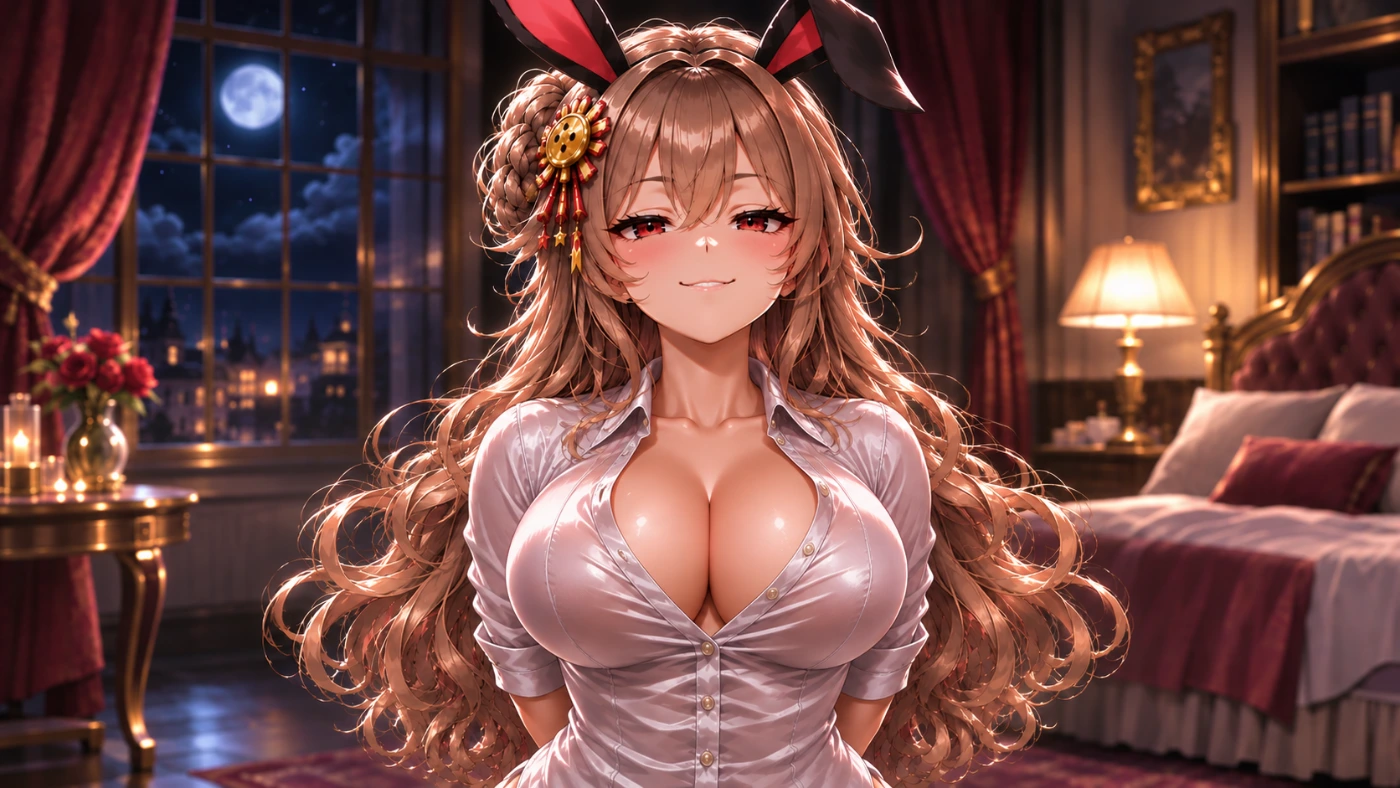
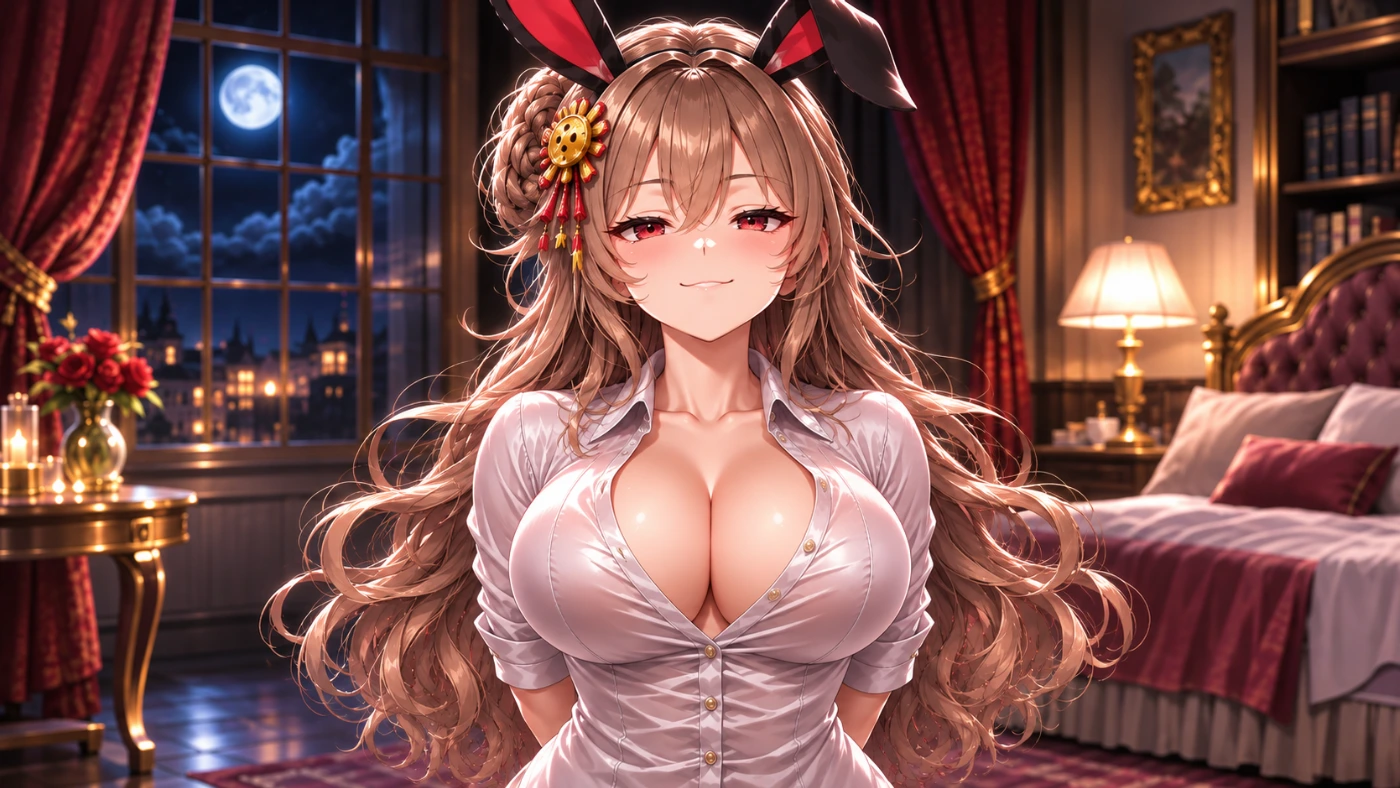
ぱにゅぱにゅ：頬・後ろ手のYシャツにもボタン外し（D19 の続き）。閉じた絵と開いた絵を ChatGPT の同じ会話で対に描かせ（閉じた絵→それを深いV字に開く）、閉じた絵も差し替え（今までの絵に位置合わせ、範囲は変えない）、三段階・とがると同時、肌検査は目視で合格、版の印 20261108q

diff --git a/assets/manifest.js b/assets/manifest.js
@@ -1,2 +1,2 @@
 // 自動生成（qa/genmanifest.mjs）。手で書き換えない。
-window.ASSET_MANIFEST = {"assets/characters/grano_bow.webp":187268,"assets/characters/grano_concerned.webp":226764,"assets/characters/grano_cutin_busted.webp":152044,"assets/characters/grano_cutin_grovel.webp":153160,"assets/characters/grano_cutin_haggle.webp":163340,"assets/characters/grano_cutin_panic.webp":151290,"assets/characters/grano_cutin_smug.webp":152992,"assets/characters/grano_default.webp":105470,"assets/characters/grano_mini.webp":189074,"assets/characters/grano_offer.webp":176806,"assets/characters/grano_recommend.webp":241808,"assets/characters/grano_shop.webp":214856,"assets/characters/grano_shop_blush.webp":213496,"assets/characters/grano_shop_smile.webp":212976,"assets/characters/grano_shop_trouble.webp":227144,"assets/characters/mimi_allin.webp":181816,"assets/characters/mimi_blush.webp":53278,"assets/characters/mimi_bust_calm.webp":200260,"assets/characters/mimi_bust_sad.webp":218298,"assets/characters/mimi_bust_shock.webp":212162,"assets/characters/mimi_bust_smug.webp":212620,"assets/characters/mimi_bust_think.webp":187966,"assets/characters/mimi_bust_win.webp":196022,"assets/characters/mimi_clutch.webp":130896,"assets/characters/mimi_cutin_bawl.webp":125292,"assets/characters/mimi_default.webp":67156,"assets/characters/mimi_ending.webp":75632,"assets/characters/mimi_gold.webp":85172,"assets/characters/mimi_intermission.webp":96396,"assets/characters/mimi_mini.webp":89246,"assets/characters/mimi_panda.webp":68440,"assets/characters/mimi_pink.webp":68754,"assets/characters/mimi_sad.webp":69046,"assets/characters/mimi_shock.webp":78598,"assets/characters/mimi_think.webp":69574,"assets/characters/mimi_win.webp":68612,"assets/characters/panyu.webp":159776,"assets/characters/panyu_bikini_dressing_open.webp":291348,"assets/characters/panyu_bikini_dressing_reach.webp":299770,"assets/characters/panyu_bikini_reach.webp":264062,"assets/characters/panyu_blush.webp":212134,"assets/characters/panyu_bunny_dressing_reach.webp":302216,"assets/characters/panyu_bunny_pool_reach.webp":363870,"assets/characters/panyu_dress_dressing_open.webp":257908,"assets/characters/panyu_dress_dressing_reach.webp":284980,"assets/characters/panyu_dress_reach.webp":255208,"assets/characters/panyu_finish.webp":214034,"assets/characters/panyu_gothic_dressing_open.webp":267246,"assets/characters/panyu_gothic_dressing_reach.webp":269984,"assets/characters/panyu_gothic_pool_open.webp":347306,"assets/characters/panyu_gothic_pool_reach.webp":360890,"assets/characters/panyu_gothic_reach.webp":284702,"assets/characters/panyu_gym_cheek_reach.webp":182128,"assets/characters/panyu_gym_reach.webp":270596,"assets/characters/panyu_gym_wrists_reach.webp":191612,"assets/characters/panyu_halter_dressing_open.webp":278048,"assets/characters/panyu_halter_dressing_reach.webp":297796,"assets/characters/panyu_halter_reach.webp":237266,"assets/characters/panyu_inner_peace_reach.webp":245824,"assets/characters/panyu_inner_reach.webp":256186,"assets/characters/panyu_jirai_dressing_open.webp":323974,"assets/characters/panyu_jirai_dressing_reach.webp":328808,"assets/characters/panyu_jirai_pool_open.webp":305884,"assets/characters/panyu_jirai_pool_reach.webp":345918,"assets/characters/panyu_jirai_reach.webp":272668,"assets/characters/panyu_nurse_dressing_open.webp":266174,"assets/characters/panyu_nurse_dressing_reach.webp":282330,"assets/characters/panyu_nurse_pool_open.webp":301016,"assets/characters/panyu_nurse_pool_reach.webp":345680,"assets/characters/panyu_nurse_reach.webp":244538,"assets/characters/panyu_pajama2_reach.webp":174094,"assets/characters/panyu_pajama2_surprise_face.webp":20480,"assets/characters/panyu_pajama_dressing_open.webp":306866,"assets/characters/panyu_pajama_dressing_reach.webp":303164,"assets/characters/panyu_pajama_pool_open.webp":303058,"assets/characters/panyu_pajama_pool_reach.webp":283860,"assets/characters/panyu_pajama_reach.webp":247900,"assets/characters/panyu_reach.webp":192882,"assets/characters/panyu_santa_dressing_open.webp":298082,"assets/characters/panyu_santa_dressing_reach.webp":303998,"assets/characters/panyu_santa_pool_open.webp":339346,"assets/characters/panyu_santa_pool_reach.webp":361490,"assets/characters/panyu_santa_reach.webp":261296,"assets/characters/panyu_surprise_face.webp":19062,"assets/characters/panyu_tshirt_reach.webp":277544,"assets/characters/panyu_tshirt_stretch_reach.webp":207118,"assets/characters/panyu_vintage_dressing_open.webp":286614,"assets/characters/panyu_vintage_dressing_reach.webp":317466,"assets/characters/panyu_vintage_pool_open.webp":348920,"assets/characters/panyu_vintage_pool_reach.webp":381568,"assets/characters/panyu_vintage_reach.webp":272268,"assets/characters/panyu_white_dressing_open.webp":264504,"assets/characters/panyu_white_dressing_reach.webp":284834,"assets/characters/panyu_white_reach.webp":227556,"assets/characters/panyu_yshirt_back_reach.webp":215862,"assets/characters/panyu_yshirt_cheek_reach.webp":207886,"assets/characters/panyu_yshirt_open.webp":249772,"assets/characters/panyu_yshirt_reach.webp":273344,"assets/characters/polka_blush.webp":40236,"assets/characters/polka_cutin_bawl.webp":189500,"assets/characters/polka_cutin_busted.webp":179316,"assets/characters/polka_cutin_panic.webp":144616,"assets/characters/polka_cutin_plead.webp":160072,"assets/characters/polka_cutin_smug.webp":155126,"assets/characters/polka_default.webp":101246,"assets/characters/polka_mini.webp":139376,"assets/characters/polka_panic.webp":125812,"assets/characters/rico_bunny.webp":101532,"assets/characters/rico_casual.webp":53836,"assets/characters/rico_cutin_applaud.webp":125530,"assets/characters/rico_cutin_busted.webp":102092,"assets/characters/rico_cutin_panic.webp":136142,"assets/characters/rico_cutin_smug.webp":122530,"assets/characters/rico_default.webp":69860,"assets/characters/rico_dress.webp":95536,"assets/characters/rico_ending.webp":69654,"assets/characters/rico_greet.webp":126778,"assets/characters/rico_gym.webp":79622,"assets/characters/rico_kimono.webp":99400,"assets/characters/rico_mini.webp":112912,"assets/characters/rico_pajama.webp":61080,"assets/characters/rico_santa.webp":85478,"assets/characters/rico_school.webp":56338,"assets/characters/rico_serious.webp":72946,"assets/characters/rico_smile.webp":80894,"assets/characters/rico_swimsuit.webp":78520,"assets/characters/rico_witch.webp":80882,"assets/characters/selina_cutin_bitter.webp":149216,"assets/characters/selina_cutin_busted.webp":136558,"assets/characters/selina_cutin_compose.webp":143750,"assets/characters/selina_cutin_panic.webp":145434,"assets/characters/selina_cutin_smug.webp":163538,"assets/characters/selina_default.webp":115226,"assets/characters/selina_mini.webp":95088,"assets/characters/velvet_cutin_bawl.webp":165582,"assets/characters/velvet_cutin_bawl_max.webp":170434,"assets/characters/velvet_cutin_busted.webp":204114,"assets/characters/velvet_cutin_busted_max.webp":192364,"assets/characters/velvet_cutin_defiant.webp":185396,"assets/characters/velvet_cutin_panic.webp":194294,"assets/characters/velvet_cutin_smirk_hide.webp":174300,"assets/characters/velvet_cutin_smug.webp":173674,"assets/characters/velvet_cutin_smug_max.webp":182126,"assets/characters/velvet_default.webp":125364,"assets/characters/velvet_mini.webp":244390,"assets/battle/chibi/grano_lose.webp":70618,"assets/battle/chibi/grano_panic.webp":82438,"assets/battle/chibi/grano_smug.webp":71432,"assets/battle/chibi/grano_think.webp":72140,"assets/battle/chibi/grano_win.webp":76204,"assets/battle/chibi/mimi_lose.webp":53368,"assets/battle/chibi/mimi_panic.webp":56306,"assets/battle/chibi/mimi_smug.webp":52502,"assets/battle/chibi/mimi_think.webp":56248,"assets/battle/chibi/mimi_win.webp":61518,"assets/battle/chibi/polka_lose.webp":84094,"assets/battle/chibi/polka_panic.webp":76000,"assets/battle/chibi/polka_smug.webp":78266,"assets/battle/chibi/polka_think.webp":71890,"assets/battle/chibi/polka_win.webp":93074,"assets/battle/chibi/rico_lose.webp":57302,"assets/battle/chibi/rico_panic.webp":56328,"assets/battle/chibi/rico_smug.webp":54756,"assets/battle/chibi/rico_think.webp":56788,"assets/battle/chibi/rico_win.webp":67724,"assets/battle/chibi/selina_lose.webp":58860,"assets/battle/chibi/selina_panic.webp":54536,"assets/battle/chibi/selina_smug.webp":55426,"assets/battle/chibi/selina_think.webp":55342,"assets/battle/chibi/selina_win.webp":56944,"assets/battle/chibi/velvet_lose.webp":81912,"assets/battle/chibi/velvet_panic.webp":86712,"assets/battle/chibi/velvet_smug.webp":84936,"assets/battle/chibi/velvet_think.webp":83660,"assets/battle/chibi/velvet_win.webp":88412,"assets/battle/face/grano_busted.webp":40028,"assets/battle/face/grano_grovel.webp":43338,"assets/battle/face/grano_haggle.webp":34610,"assets/battle/face/grano_panic.webp":51410,"assets/battle/face/grano_smug.webp":51786,"assets/battle/face/mimi_bawl.webp":39546,"assets/battle/face/mimi_calm.webp":32924,"assets/battle/face/mimi_sad.webp":37824,"assets/battle/face/mimi_shock.webp":39524,"assets/battle/face/mimi_smug.webp":41142,"assets/battle/face/mimi_think.webp":44294,"assets/battle/face/mimi_win.webp":39408,"assets/battle/face/polka_bawl.webp":37600,"assets/battle/face/polka_busted.webp":35746,"assets/battle/face/polka_panic.webp":40332,"assets/battle/face/polka_plead.webp":34110,"assets/battle/face/polka_smug.webp":43248,"assets/battle/face/rico_applaud.webp":27392,"assets/battle/face/rico_busted.webp":32352,"assets/battle/face/rico_panic.webp":32218,"assets/battle/face/rico_smug.webp":30652,"assets/battle/face/selina_bitter.webp":29458,"assets/battle/face/selina_busted.webp":35468,"assets/battle/face/selina_compose.webp":27410,"assets/battle/face/selina_panic.webp":46304,"assets/battle/face/selina_smug.webp":41418,"assets/battle/face/velvet_bawl.webp":48334,"assets/battle/face/velvet_bawl_max.webp":48534,"assets/battle/face/velvet_busted.webp":42186,"assets/battle/face/velvet_busted_max.webp":46638,"assets/battle/face/velvet_defiant.webp":35106,"assets/battle/face/velvet_panic.webp":62652,"assets/battle/face/velvet_smirk_hide.webp":37772,"assets/battle/face/velvet_smug.webp":49360,"assets/battle/motion/grano_busted.mp4":206692,"assets/battle/motion/grano_chibi_lose.mp4":180750,"assets/battle/motion/grano_chibi_win.mp4":193709,"assets/battle/motion/grano_vs.mp4":85345,"assets/battle/motion/mimi_vs.mp4":65626,"assets/battle/motion/polka_busted.mp4":222399,"assets/battle/motion/polka_chibi_lose.mp4":174337,"assets/battle/motion/polka_chibi_win.mp4":200187,"assets/battle/motion/polka_vs.mp4":76604,"assets/battle/motion/selina_busted.mp4":217184,"assets/battle/motion/selina_chibi_lose.mp4":184923,"assets/battle/motion/selina_chibi_win.mp4":181844,"assets/battle/motion/selina_vs.mp4":79133,"assets/battle/motion/velvet_busted.mp4":160580,"assets/battle/motion/velvet_chibi_lose.mp4":180382,"assets/battle/motion/velvet_chibi_win.mp4":186934,"assets/battle/motion/velvet_vs.mp4":85273,"assets/motion/cg_grano.mp4":239956,"assets/motion/cg_polka.mp4":213066,"assets/motion/cg_rico_tutorial.mp4":236478,"assets/motion/cg_selina.mp4":203641,"assets/motion/cg_velvet.mp4":200336,"assets/motion/ending_room.mp4":306904,"assets/motion/ep_ending.mp4":257380,"assets/motion/ep_grano.mp4":884466,"assets/motion/ep_polka.mp4":863254,"assets/motion/ep_selina.mp4":541573,"assets/motion/idle_grano.mp4":772205,"assets/motion/idle_polka.mp4":865702,"assets/motion/idle_rico_tutorial.mp4":720056,"assets/motion/idle_selina.mp4":639308,"assets/motion/idle_velvet.mp4":866628,"assets/motion/loading_mimi.mp4":589080,"assets/motion/lobby_loop.mp4":397424,"assets/motion/panyu_leg.mp4":808750,"assets/motion/panyu_sr.mp4":443300,"assets/motion/panyu_ssr.mp4":682499,"assets/ui/a.webp":63600,"assets/ui/allstar_opening.webp":417574,"assets/ui/apple-touch-icon.png":48834,"assets/ui/btn_gold_large.webp":14830,"assets/ui/btn_purple_large.webp":13848,"assets/ui/card_back_default.webp":70520,"assets/ui/chip_blue.webp":65406,"assets/ui/chip_gold.webp":74420,"assets/ui/chip_red.webp":57734,"assets/ui/chip_white.webp":55090,"assets/ui/emblem_rabbit_gold.webp":255088,"assets/ui/face_grano.webp":40334,"assets/ui/face_mimi.webp":29850,"assets/ui/face_polka.webp":37228,"assets/ui/face_rico.webp":31816,"assets/ui/face_rico_bunny.webp":23360,"assets/ui/face_rico_casual.webp":18130,"assets/ui/face_rico_default.webp":31816,"assets/ui/face_rico_dress.webp":19410,"assets/ui/face_rico_gym.webp":20770,"assets/ui/face_rico_kimono.webp":17854,"assets/ui/face_rico_pajama.webp":18080,"assets/ui/face_rico_santa.webp":19960,"assets/ui/face_rico_school.webp":17270,"assets/ui/face_rico_swimsuit.webp":20288,"assets/ui/face_rico_witch.webp":17312,"assets/ui/face_selina.webp":28370,"assets/ui/face_velvet.webp":43838,"assets/ui/favicon-64.png":7704,"assets/ui/frame_gold.webp":19012,"assets/ui/frame_lecture.webp":22742,"assets/ui/frame_logic.webp":19672,"assets/ui/frame_psych.webp":24328,"assets/ui/fx_aura_logic.webp":150986,"assets/ui/fx_aura_psych.webp":240510,"assets/ui/fx_flash_gold.webp":23418,"assets/ui/fx_speedlines.webp":26638,"assets/ui/icon-192.png":35173,"assets/ui/icon-512.png":217174,"assets/ui/lecture_ribbon.webp":6968,"assets/ui/modal_corner_bl.webp":7850,"assets/ui/modal_corner_br.webp":7798,"assets/ui/modal_corner_tl.webp":7894,"assets/ui/modal_corner_tr.webp":7880,"assets/ui/panyu_ball.webp":4344,"assets/ui/panyu_ball_l.webp":32216,"assets/ui/panyu_ball_r.webp":32216,"assets/ui/portrait_grano.webp":158514,"assets/ui/portrait_mimi.webp":114598,"assets/ui/portrait_polka.webp":147926,"assets/ui/portrait_rico.webp":114292,"assets/ui/portrait_selina.webp":126018,"assets/ui/portrait_velvet.webp":142842,"assets/ui/pot.webp":101604,"assets/ui/share_trial.jpg":308605,"assets/ui/shop_atlas.webp":15982,"assets/ui/stamp_correct.webp":20350,"assets/ui/stamp_speed.webp":12302,"assets/ui/stamp_wrong.webp":19808,"assets/ui/tex_damask_purple.webp":25918,"assets/ui/tex_grid_blue.webp":11788,"assets/ui/title.webp":49448,"assets/ui/title_logo.webp":73228,"assets/ui/title_logo_hd.webp":350370,"assets/ui/home/frame.webp":270568,"assets/ui/home/ico_coin.webp":14954,"assets/ui/home/ico_collection.webp":13594,"assets/ui/home/ico_costume.webp":10424,"assets/ui/home/ico_gear.webp":12704,"assets/ui/home/ico_gift.webp":11836,"assets/ui/home/ico_panyu.webp":9830,"assets/ui/home/ico_school.webp":10698,"assets/ui/home/ico_shop.webp":15352,"assets/ui/home/ico_title.webp":10236,"assets/ui/home/ledger.webp":268486,"assets/ui/home/lock.webp":51312,"assets/ui/home/mark.webp":48480,"assets/ui/home/nameplate.webp":172132,"assets/ui/home/oct.webp":88722,"assets/ui/home/plate.webp":180540,"assets/ui/home/plate_pic.webp":156012,"assets/ui/home/rico_mask.png":20332,"assets/ui/home/scene.webp":797690,"assets/ui/home/seal.webp":60530,"assets/ui/home/stage-empty.webp":828046,"assets/ui/home/ticket.webp":365190,"assets/backgrounds/bg_intermission.jpg":133727,"assets/backgrounds/bg_lobby_clock.jpg":414603,"assets/backgrounds/bg_lobby_hall.jpg":210723,"assets/backgrounds/bg_psych_stage.jpg":112374,"assets/backgrounds/bg_result_stage.jpg":111399,"assets/backgrounds/bg_shop_bazaar.jpg":180574,"assets/backgrounds/ending_room.webp":253352,"assets/backgrounds/graduation_cg.jpg":473779,"assets/backgrounds/home_hall_blur.webp":65848,"assets/backgrounds/loading_mimi.webp":228264,"assets/backgrounds/lobby.webp":298126,"assets/backgrounds/poker_table_bg.webp":166544,"assets/backgrounds/reward_cg_grano.jpg":528715,"assets/backgrounds/reward_cg_polka.jpg":335075,"assets/backgrounds/reward_cg_rico_tutorial.jpg":396085,"assets/backgrounds/reward_cg_selina.jpg":432741,"assets/backgrounds/reward_cg_selina_2.jpg":424015,"assets/backgrounds/reward_cg_velvet.jpg":322524,"assets/backgrounds/secret_cg_selina_fireside.jpg":425682,"assets/backgrounds/secret_cg_selina_salon.jpg":214189,"assets/backgrounds/shop.webp":258188,"assets/backgrounds/shop_counter.webp":243128,"assets/backgrounds/shop_counter_fg.webp":98942,"assets/backgrounds/staffroll.webp":48628,"assets/backgrounds/table_grano.webp":168346,"assets/backgrounds/table_polka.webp":253494,"assets/backgrounds/table_rico_serious.webp":229764,"assets/backgrounds/table_selina.webp":95814,"assets/backgrounds/table_velvet.webp":186938,"assets/backgrounds/title_bg.webp":297362,"assets/episodes/ending.webp":236550,"assets/episodes/grano.webp":496838,"assets/episodes/polka.webp":359012,"assets/episodes/rico_tutorial.webp":408040,"assets/episodes/selina.webp":281610,"assets/episodes/struggle_grano.webp":262594,"assets/episodes/struggle_polka.webp":255230,"assets/episodes/struggle_selina.webp":179324,"assets/episodes/struggle_velvet_6.webp":338642,"assets/episodes/struggle_velvet_7.webp":251488,"assets/episodes/struggle_velvet_8.webp":340156,"assets/episodes/struggle_velvet_a.webp":292632,"assets/episodes/struggle_velvet_b.webp":216350,"assets/episodes/struggle_velvet_c.webp":163666,"assets/episodes/velvet.webp":231450};
+window.ASSET_MANIFEST = {"assets/characters/grano_bow.webp":187268,"assets/characters/grano_concerned.webp":226764,"assets/characters/grano_cutin_busted.webp":152044,"assets/characters/grano_cutin_grovel.webp":153160,"assets/characters/grano_cutin_haggle.webp":163340,"assets/characters/grano_cutin_panic.webp":151290,"assets/characters/grano_cutin_smug.webp":152992,"assets/characters/grano_default.webp":105470,"assets/characters/grano_mini.webp":189074,"assets/characters/grano_offer.webp":176806,"assets/characters/grano_recommend.webp":241808,"assets/characters/grano_shop.webp":214856,"assets/characters/grano_shop_blush.webp":213496,"assets/characters/grano_shop_smile.webp":212976,"assets/characters/grano_shop_trouble.webp":227144,"assets/characters/mimi_allin.webp":181816,"assets/characters/mimi_blush.webp":53278,"assets/characters/mimi_bust_calm.webp":200260,"assets/characters/mimi_bust_sad.webp":218298,"assets/characters/mimi_bust_shock.webp":212162,"assets/characters/mimi_bust_smug.webp":212620,"assets/characters/mimi_bust_think.webp":187966,"assets/characters/mimi_bust_win.webp":196022,"assets/characters/mimi_clutch.webp":130896,"assets/characters/mimi_cutin_bawl.webp":125292,"assets/characters/mimi_default.webp":67156,"assets/characters/mimi_ending.webp":75632,"assets/characters/mimi_gold.webp":85172,"assets/characters/mimi_intermission.webp":96396,"assets/characters/mimi_mini.webp":89246,"assets/characters/mimi_panda.webp":68440,"assets/characters/mimi_pink.webp":68754,"assets/characters/mimi_sad.webp":69046,"assets/characters/mimi_shock.webp":78598,"assets/characters/mimi_think.webp":69574,"assets/characters/mimi_win.webp":68612,"assets/characters/panyu.webp":159776,"assets/characters/panyu_bikini_dressing_open.webp":291348,"assets/characters/panyu_bikini_dressing_reach.webp":299770,"assets/characters/panyu_bikini_reach.webp":264062,"assets/characters/panyu_blush.webp":212134,"assets/characters/panyu_bunny_dressing_reach.webp":302216,"assets/characters/panyu_bunny_pool_reach.webp":363870,"assets/characters/panyu_dress_dressing_open.webp":257908,"assets/characters/panyu_dress_dressing_reach.webp":284980,"assets/characters/panyu_dress_reach.webp":255208,"assets/characters/panyu_finish.webp":214034,"assets/characters/panyu_gothic_dressing_open.webp":267246,"assets/characters/panyu_gothic_dressing_reach.webp":269984,"assets/characters/panyu_gothic_pool_open.webp":347306,"assets/characters/panyu_gothic_pool_reach.webp":360890,"assets/characters/panyu_gothic_reach.webp":284702,"assets/characters/panyu_gym_cheek_reach.webp":182128,"assets/characters/panyu_gym_reach.webp":270596,"assets/characters/panyu_gym_wrists_reach.webp":191612,"assets/characters/panyu_halter_dressing_open.webp":278048,"assets/characters/panyu_halter_dressing_reach.webp":297796,"assets/characters/panyu_halter_reach.webp":237266,"assets/characters/panyu_inner_peace_reach.webp":245824,"assets/characters/panyu_inner_reach.webp":256186,"assets/characters/panyu_jirai_dressing_open.webp":323974,"assets/characters/panyu_jirai_dressing_reach.webp":328808,"assets/characters/panyu_jirai_pool_open.webp":305884,"assets/characters/panyu_jirai_pool_reach.webp":345918,"assets/characters/panyu_jirai_reach.webp":272668,"assets/characters/panyu_nurse_dressing_open.webp":266174,"assets/characters/panyu_nurse_dressing_reach.webp":282330,"assets/characters/panyu_nurse_pool_open.webp":301016,"assets/characters/panyu_nurse_pool_reach.webp":345680,"assets/characters/panyu_nurse_reach.webp":244538,"assets/characters/panyu_pajama2_reach.webp":174094,"assets/characters/panyu_pajama2_surprise_face.webp":20480,"assets/characters/panyu_pajama_dressing_open.webp":306866,"assets/characters/panyu_pajama_dressing_reach.webp":303164,"assets/characters/panyu_pajama_pool_open.webp":303058,"assets/characters/panyu_pajama_pool_reach.webp":283860,"assets/characters/panyu_pajama_reach.webp":247900,"assets/characters/panyu_reach.webp":192882,"assets/characters/panyu_santa_dressing_open.webp":298082,"assets/characters/panyu_santa_dressing_reach.webp":303998,"assets/characters/panyu_santa_pool_open.webp":339346,"assets/characters/panyu_santa_pool_reach.webp":361490,"assets/characters/panyu_santa_reach.webp":261296,"assets/characters/panyu_surprise_face.webp":19062,"assets/characters/panyu_tshirt_reach.webp":277544,"assets/characters/panyu_tshirt_stretch_reach.webp":207118,"assets/characters/panyu_vintage_dressing_open.webp":286614,"assets/characters/panyu_vintage_dressing_reach.webp":317466,"assets/characters/panyu_vintage_pool_open.webp":348920,"assets/characters/panyu_vintage_pool_reach.webp":381568,"assets/characters/panyu_vintage_reach.webp":272268,"assets/characters/panyu_white_dressing_open.webp":264504,"assets/characters/panyu_white_dressing_reach.webp":284834,"assets/characters/panyu_white_reach.webp":227556,"assets/characters/panyu_yshirt_back_open.webp":222972,"assets/characters/panyu_yshirt_back_reach.webp":227234,"assets/characters/panyu_yshirt_cheek_open.webp":217830,"assets/characters/panyu_yshirt_cheek_reach.webp":214760,"assets/characters/panyu_yshirt_open.webp":249772,"assets/characters/panyu_yshirt_reach.webp":273344,"assets/characters/polka_blush.webp":40236,"assets/characters/polka_cutin_bawl.webp":189500,"assets/characters/polka_cutin_busted.webp":179316,"assets/characters/polka_cutin_panic.webp":144616,"assets/characters/polka_cutin_plead.webp":160072,"assets/characters/polka_cutin_smug.webp":155126,"assets/characters/polka_default.webp":101246,"assets/characters/polka_mini.webp":139376,"assets/characters/polka_panic.webp":125812,"assets/characters/rico_bunny.webp":101532,"assets/characters/rico_casual.webp":53836,"assets/characters/rico_cutin_applaud.webp":125530,"assets/characters/rico_cutin_busted.webp":102092,"assets/characters/rico_cutin_panic.webp":136142,"assets/characters/rico_cutin_smug.webp":122530,"assets/characters/rico_default.webp":69860,"assets/characters/rico_dress.webp":95536,"assets/characters/rico_ending.webp":69654,"assets/characters/rico_greet.webp":126778,"assets/characters/rico_gym.webp":79622,"assets/characters/rico_kimono.webp":99400,"assets/characters/rico_mini.webp":112912,"assets/characters/rico_pajama.webp":61080,"assets/characters/rico_santa.webp":85478,"assets/characters/rico_school.webp":56338,"assets/characters/rico_serious.webp":72946,"assets/characters/rico_smile.webp":80894,"assets/characters/rico_swimsuit.webp":78520,"assets/characters/rico_witch.webp":80882,"assets/characters/selina_cutin_bitter.webp":149216,"assets/characters/selina_cutin_busted.webp":136558,"assets/characters/selina_cutin_compose.webp":143750,"assets/characters/selina_cutin_panic.webp":145434,"assets/characters/selina_cutin_smug.webp":163538,"assets/characters/selina_default.webp":115226,"assets/characters/selina_mini.webp":95088,"assets/characters/velvet_cutin_bawl.webp":165582,"assets/characters/velvet_cutin_bawl_max.webp":170434,"assets/characters/velvet_cutin_busted.webp":204114,"assets/characters/velvet_cutin_busted_max.webp":192364,"assets/characters/velvet_cutin_defiant.webp":185396,"assets/characters/velvet_cutin_panic.webp":194294,"assets/characters/velvet_cutin_smirk_hide.webp":174300,"assets/characters/velvet_cutin_smug.webp":173674,"assets/characters/velvet_cutin_smug_max.webp":182126,"assets/characters/velvet_default.webp":125364,"assets/characters/velvet_mini.webp":244390,"assets/battle/chibi/grano_lose.webp":70618,"assets/battle/chibi/grano_panic.webp":82438,"assets/battle/chibi/grano_smug.webp":71432,"assets/battle/chibi/grano_think.webp":72140,"assets/battle/chibi/grano_win.webp":76204,"assets/battle/chibi/mimi_lose.webp":53368,"assets/battle/chibi/mimi_panic.webp":56306,"assets/battle/chibi/mimi_smug.webp":52502,"assets/battle/chibi/mimi_think.webp":56248,"assets/battle/chibi/mimi_win.webp":61518,"assets/battle/chibi/polka_lose.webp":84094,"assets/battle/chibi/polka_panic.webp":76000,"assets/battle/chibi/polka_smug.webp":78266,"assets/battle/chibi/polka_think.webp":71890,"assets/battle/chibi/polka_win.webp":93074,"assets/battle/chibi/rico_lose.webp":57302,"assets/battle/chibi/rico_panic.webp":56328,"assets/battle/chibi/rico_smug.webp":54756,"assets/battle/chibi/rico_think.webp":56788,"assets/battle/chibi/rico_win.webp":67724,"assets/battle/chibi/selina_lose.webp":58860,"assets/battle/chibi/selina_panic.webp":54536,"assets/battle/chibi/selina_smug.webp":55426,"assets/battle/chibi/selina_think.webp":55342,"assets/battle/chibi/selina_win.webp":56944,"assets/battle/chibi/velvet_lose.webp":81912,"assets/battle/chibi/velvet_panic.webp":86712,"assets/battle/chibi/velvet_smug.webp":84936,"assets/battle/chibi/velvet_think.webp":83660,"assets/battle/chibi/velvet_win.webp":88412,"assets/battle/face/grano_busted.webp":40028,"assets/battle/face/grano_grovel.webp":43338,"assets/battle/face/grano_haggle.webp":34610,"assets/battle/face/grano_panic.webp":51410,"assets/battle/face/grano_smug.webp":51786,"assets/battle/face/mimi_bawl.webp":39546,"assets/battle/face/mimi_calm.webp":32924,"assets/battle/face/mimi_sad.webp":37824,"assets/battle/face/mimi_shock.webp":39524,"assets/battle/face/mimi_smug.webp":41142,"assets/battle/face/mimi_think.webp":44294,"assets/battle/face/mimi_win.webp":39408,"assets/battle/face/polka_bawl.webp":37600,"assets/battle/face/polka_busted.webp":35746,"assets/battle/face/polka_panic.webp":40332,"assets/battle/face/polka_plead.webp":34110,"assets/battle/face/polka_smug.webp":43248,"assets/battle/face/rico_applaud.webp":27392,"assets/battle/face/rico_busted.webp":32352,"assets/battle/face/rico_panic.webp":32218,"assets/battle/face/rico_smug.webp":30652,"assets/battle/face/selina_bitter.webp":29458,"assets/battle/face/selina_busted.webp":35468,"assets/battle/face/selina_compose.webp":27410,"assets/battle/face/selina_panic.webp":46304,"assets/battle/face/selina_smug.webp":41418,"assets/battle/face/velvet_bawl.webp":48334,"assets/battle/face/velvet_bawl_max.webp":48534,"assets/battle/face/velvet_busted.webp":42186,"assets/battle/face/velvet_busted_max.webp":46638,"assets/battle/face/velvet_defiant.webp":35106,"assets/battle/face/velvet_panic.webp":62652,"assets/battle/face/velvet_smirk_hide.webp":37772,"assets/battle/face/velvet_smug.webp":49360,"assets/battle/motion/grano_busted.mp4":206692,"assets/battle/motion/grano_chibi_lose.mp4":180750,"assets/battle/motion/grano_chibi_win.mp4":193709,"assets/battle/motion/grano_vs.mp4":85345,"assets/battle/motion/mimi_vs.mp4":65626,"assets/battle/motion/polka_busted.mp4":222399,"assets/battle/motion/polka_chibi_lose.mp4":174337,"assets/battle/motion/polka_chibi_win.mp4":200187,"assets/battle/motion/polka_vs.mp4":76604,"assets/battle/motion/selina_busted.mp4":217184,"assets/battle/motion/selina_chibi_lose.mp4":184923,"assets/battle/motion/selina_chibi_win.mp4":181844,"assets/battle/motion/selina_vs.mp4":79133,"assets/battle/motion/velvet_busted.mp4":160580,"assets/battle/motion/velvet_chibi_lose.mp4":180382,"assets/battle/motion/velvet_chibi_win.mp4":186934,"assets/battle/motion/velvet_vs.mp4":85273,"assets/motion/cg_grano.mp4":239956,"assets/motion/cg_polka.mp4":213066,"assets/motion/cg_rico_tutorial.mp4":236478,"assets/motion/cg_selina.mp4":203641,"assets/motion/cg_velvet.mp4":200336,"assets/motion/ending_room.mp4":306904,"assets/motion/ep_ending.mp4":257380,"assets/motion/ep_grano.mp4":884466,"assets/motion/ep_polka.mp4":863254,"assets/motion/ep_selina.mp4":541573,"assets/motion/idle_grano.mp4":772205,"assets/motion/idle_polka.mp4":865702,"assets/motion/idle_rico_tutorial.mp4":720056,"assets/motion/idle_selina.mp4":639308,"assets/motion/idle_velvet.mp4":866628,"assets/motion/loading_mimi.mp4":589080,"assets/motion/lobby_loop.mp4":397424,"assets/motion/panyu_leg.mp4":808750,"assets/motion/panyu_sr.mp4":443300,"assets/motion/panyu_ssr.mp4":682499,"assets/ui/a.webp":63600,"assets/ui/allstar_opening.webp":417574,"assets/ui/apple-touch-icon.png":48834,"assets/ui/btn_gold_large.webp":14830,"assets/ui/btn_purple_large.webp":13848,"assets/ui/card_back_default.webp":70520,"assets/ui/chip_blue.webp":65406,"assets/ui/chip_gold.webp":74420,"assets/ui/chip_red.webp":57734,"assets/ui/chip_white.webp":55090,"assets/ui/emblem_rabbit_gold.webp":255088,"assets/ui/face_grano.webp":40334,"assets/ui/face_mimi.webp":29850,"assets/ui/face_polka.webp":37228,"assets/ui/face_rico.webp":31816,"assets/ui/face_rico_bunny.webp":23360,"assets/ui/face_rico_casual.webp":18130,"assets/ui/face_rico_default.webp":31816,"assets/ui/face_rico_dress.webp":19410,"assets/ui/face_rico_gym.webp":20770,"assets/ui/face_rico_kimono.webp":17854,"assets/ui/face_rico_pajama.webp":18080,"assets/ui/face_rico_santa.webp":19960,"assets/ui/face_rico_school.webp":17270,"assets/ui/face_rico_swimsuit.webp":20288,"assets/ui/face_rico_witch.webp":17312,"assets/ui/face_selina.webp":28370,"assets/ui/face_velvet.webp":43838,"assets/ui/favicon-64.png":7704,"assets/ui/frame_gold.webp":19012,"assets/ui/frame_lecture.webp":22742,"assets/ui/frame_logic.webp":19672,"assets/ui/frame_psych.webp":24328,"assets/ui/fx_aura_logic.webp":150986,"assets/ui/fx_aura_psych.webp":240510,"assets/ui/fx_flash_gold.webp":23418,"assets/ui/fx_speedlines.webp":26638,"assets/ui/icon-192.png":35173,"assets/ui/icon-512.png":217174,"assets/ui/lecture_ribbon.webp":6968,"assets/ui/modal_corner_bl.webp":7850,"assets/ui/modal_corner_br.webp":7798,"assets/ui/modal_corner_tl.webp":7894,"assets/ui/modal_corner_tr.webp":7880,"assets/ui/panyu_ball.webp":4344,"assets/ui/panyu_ball_l.webp":32216,"assets/ui/panyu_ball_r.webp":32216,"assets/ui/portrait_grano.webp":158514,"assets/ui/portrait_mimi.webp":114598,"assets/ui/portrait_polka.webp":147926,"assets/ui/portrait_rico.webp":114292,"assets/ui/portrait_selina.webp":126018,"assets/ui/portrait_velvet.webp":142842,"assets/ui/pot.webp":101604,"assets/ui/share_trial.jpg":308605,"assets/ui/shop_atlas.webp":15982,"assets/ui/stamp_correct.webp":20350,"assets/ui/stamp_speed.webp":12302,"assets/ui/stamp_wrong.webp":19808,"assets/ui/tex_damask_purple.webp":25918,"assets/ui/tex_grid_blue.webp":11788,"assets/ui/title.webp":49448,"assets/ui/title_logo.webp":73228,"assets/ui/title_logo_hd.webp":350370,"assets/ui/home/frame.webp":270568,"assets/ui/home/ico_coin.webp":14954,"assets/ui/home/ico_collection.webp":13594,"assets/ui/home/ico_costume.webp":10424,"assets/ui/home/ico_gear.webp":12704,"assets/ui/home/ico_gift.webp":11836,"assets/ui/home/ico_panyu.webp":9830,"assets/ui/home/ico_school.webp":10698,"assets/ui/home/ico_shop.webp":15352,"assets/ui/home/ico_title.webp":10236,"assets/ui/home/ledger.webp":268486,"assets/ui/home/lock.webp":51312,"assets/ui/home/mark.webp":48480,"assets/ui/home/nameplate.webp":172132,"assets/ui/home/oct.webp":88722,"assets/ui/home/plate.webp":180540,"assets/ui/home/plate_pic.webp":156012,"assets/ui/home/rico_mask.png":20332,"assets/ui/home/scene.webp":797690,"assets/ui/home/seal.webp":60530,"assets/ui/home/stage-empty.webp":828046,"assets/ui/home/ticket.webp":365190,"assets/backgrounds/bg_intermission.jpg":133727,"assets/backgrounds/bg_lobby_clock.jpg":414603,"assets/backgrounds/bg_lobby_hall.jpg":210723,"assets/backgrounds/bg_psych_stage.jpg":112374,"assets/backgrounds/bg_result_stage.jpg":111399,"assets/backgrounds/bg_shop_bazaar.jpg":180574,"assets/backgrounds/ending_room.webp":253352,"assets/backgrounds/graduation_cg.jpg":473779,"assets/backgrounds/home_hall_blur.webp":65848,"assets/backgrounds/loading_mimi.webp":228264,"assets/backgrounds/lobby.webp":298126,"assets/backgrounds/poker_table_bg.webp":166544,"assets/backgrounds/reward_cg_grano.jpg":528715,"assets/backgrounds/reward_cg_polka.jpg":335075,"assets/backgrounds/reward_cg_rico_tutorial.jpg":396085,"assets/backgrounds/reward_cg_selina.jpg":432741,"assets/backgrounds/reward_cg_selina_2.jpg":424015,"assets/backgrounds/reward_cg_velvet.jpg":322524,"assets/backgrounds/secret_cg_selina_fireside.jpg":425682,"assets/backgrounds/secret_cg_selina_salon.jpg":214189,"assets/backgrounds/shop.webp":258188,"assets/backgrounds/shop_counter.webp":243128,"assets/backgrounds/shop_counter_fg.webp":98942,"assets/backgrounds/staffroll.webp":48628,"assets/backgrounds/table_grano.webp":168346,"assets/backgrounds/table_polka.webp":253494,"assets/backgrounds/table_rico_serious.webp":229764,"assets/backgrounds/table_selina.webp":95814,"assets/backgrounds/table_velvet.webp":186938,"assets/backgrounds/title_bg.webp":297362,"assets/episodes/ending.webp":236550,"assets/episodes/grano.webp":496838,"assets/episodes/polka.webp":359012,"assets/episodes/rico_tutorial.webp":408040,"assets/episodes/selina.webp":281610,"assets/episodes/struggle_grano.webp":262594,"assets/episodes/struggle_polka.webp":255230,"assets/episodes/struggle_selina.webp":179324,"assets/episodes/struggle_velvet_6.webp":338642,"assets/episodes/struggle_velvet_7.webp":251488,"assets/episodes/struggle_velvet_8.webp":340156,"assets/episodes/struggle_velvet_a.webp":292632,"assets/episodes/struggle_velvet_b.webp":216350,"assets/episodes/struggle_velvet_c.webp":163666,"assets/episodes/velvet.webp":231450};

diff --git a/index.html b/index.html
@@ -42,15 +42,15 @@
 <link rel="preconnect" href="https://fonts.googleapis.com">
 <!-- 外部の書体は描画を止めずに後から当てる（2026-11-01 9回目の批評：取得待ちで起動が6秒遅れた） -->
 <link rel="stylesheet" media="print" onload="this.media='all'" href="https://fonts.googleapis.com/css2?family=Barlow+Condensed:wght@500;600&family=Bebas+Neue&family=Shippori+Mincho+B1:wght@600;700;800&family=Noto+Sans+JP:wght@400;500;700;900&display=swap"><noscript><link rel="stylesheet" href="https://fonts.googleapis.com/css2?family=Barlow+Condensed:wght@500;600&family=Bebas+Neue&family=Shippori+Mincho+B1:wght@600;700;800&family=Noto+Sans+JP:wght@400;500;700;900&display=swap"></noscript>
-<link rel="stylesheet" href="style.css?v=20261108p">
-<link rel="stylesheet" href="battles/core.css?v=20261108p">
-<link rel="stylesheet" href="battles/read-pc.css?v=20261108p">
-<link rel="stylesheet" href="read-compact.css?v=20261108p">
-<link rel="stylesheet" href="ui-modal.css?v=20261108p">
-<link rel="stylesheet" href="allstar.css?v=20261108p">
-<link rel="stylesheet" href="offline.css?v=20261108p">
+<link rel="stylesheet" href="style.css?v=20261108q">
+<link rel="stylesheet" href="battles/core.css?v=20261108q">
+<link rel="stylesheet" href="battles/read-pc.css?v=20261108q">
+<link rel="stylesheet" href="read-compact.css?v=20261108q">
+<link rel="stylesheet" href="ui-modal.css?v=20261108q">
+<link rel="stylesheet" href="allstar.css?v=20261108q">
+<link rel="stylesheet" href="offline.css?v=20261108q">
 <!-- 文字の役目の段：いちばん最後に読む（ここだけが大きさの決め所） -->
-<link rel="stylesheet" href="type-roles.css?v=20261108p">
+<link rel="stylesheet" href="type-roles.css?v=20261108q">
 <link rel="preload" as="image" href="assets/ui/home/scene.webp" fetchpriority="high">
 </head>
 <body>
@@ -475,33 +475,33 @@
   </div>
 </template>
 
-<script src="battles/core.js?v=20261108p"></script>
-<script src="battles/games/detective.js?v=20261108p"></script>
-<script src="battles/games/ask.js?v=20261108p"></script>
-<script src="battles/games/stare.js?v=20261108p"></script>
-<script src="battles/games/doubt.js?v=20261108p"></script>
-<script src="battles/games/objection.js?v=20261108p"></script>
-<script src="battles/games/graduation.js?v=20261108p"></script>
-<script src="battles/games/gacha.js?v=20261108p"></script>
-<script src="battles/games/handbuild.js?v=20261108p"></script>
-<script src="battles/games/highlow.js?v=20261108p"></script>
-<script src="battles/games/handvs.js?v=20261108p"></script>
-<script src="battles/games/danger.js?v=20261108p"></script>
-<script src="battles/games/sniper.js?v=20261108p"></script>
-<script src="battles/games/outs.js?v=20261108p"></script>
-<script src="battles/games/suspects.js?v=20261108p"></script>
-<script src="battles/games/narrow.js?v=20261108p"></script>
-<script src="battles/games/verdict.js?v=20261108p"></script>
-<script src="assets/manifest.js?v=20261108p"></script>
-<script src="loader.js?v=20261108p"></script>
-<script src="home.js?v=20261108p"></script>
-<script src="home-live.js?v=20261108p"></script>
-<script src="live-cg.js?v=20261108p"></script>
+<script src="battles/core.js?v=20261108q"></script>
+<script src="battles/games/detective.js?v=20261108q"></script>
+<script src="battles/games/ask.js?v=20261108q"></script>
+<script src="battles/games/stare.js?v=20261108q"></script>
+<script src="battles/games/doubt.js?v=20261108q"></script>
+<script src="battles/games/objection.js?v=20261108q"></script>
+<script src="battles/games/graduation.js?v=20261108q"></script>
+<script src="battles/games/gacha.js?v=20261108q"></script>
+<script src="battles/games/handbuild.js?v=20261108q"></script>
+<script src="battles/games/highlow.js?v=20261108q"></script>
+<script src="battles/games/handvs.js?v=20261108q"></script>
+<script src="battles/games/danger.js?v=20261108q"></script>
+<script src="battles/games/sniper.js?v=20261108q"></script>
+<script src="battles/games/outs.js?v=20261108q"></script>
+<script src="battles/games/suspects.js?v=20261108q"></script>
+<script src="battles/games/narrow.js?v=20261108q"></script>
+<script src="battles/games/verdict.js?v=20261108q"></script>
+<script src="assets/manifest.js?v=20261108q"></script>
+<script src="loader.js?v=20261108q"></script>
+<script src="home.js?v=20261108q"></script>
+<script src="home-live.js?v=20261108q"></script>
+<script src="live-cg.js?v=20261108q"></script>
 <script>window.MIMI_SHARE_URL = 'https://takakazuaikawa-hue.github.io/tousatsu-mimi/';</script><!-- 共有先（製品版）。体験版の書き出しで差し替える -->
-<script src="voice.js?v=20261108p"></script>
-<script src="game.js?v=20261108p"></script>
-<script src="allstar.js?v=20261108p"></script>
-<script src="allstar-ui.js?v=20261108p"></script>
-<script src="offline.js?v=20261108p"></script>
+<script src="voice.js?v=20261108q"></script>
+<script src="game.js?v=20261108q"></script>
+<script src="allstar.js?v=20261108q"></script>
+<script src="allstar-ui.js?v=20261108q"></script>
+<script src="offline.js?v=20261108q"></script>
 </body>
 </html>

diff --git a/docs/design-ref/panyu-mesh.html b/docs/design-ref/panyu-mesh.html
@@ -202,9 +202,14 @@
   OUTFITS['inner@peace'] = { ...OUTFITS.inner, name: '肌着（湯上がり）', img: 'panyu_inner_peace_reach.webp', tipP: [[563, 625], [860, 625]], tipC: [[603, 647], [820, 647]],
     pose: NP({ cups: [[605, 616, 128], [818, 616, 128]], keep: [[520, 460, 40, 70, -20], [900, 460, 40, 70, 20], [0, 0, 0, 0]], cheek: [[648, 312], [770, 308]], eyes: [[645, 268], [770, 263]], head: [708, 290, 400], focus: [710, 575] }) };   // 6番：ダブルピース（湯上がりの洗面所）
   OUTFITS['yshirt@back'] = { ...OUTFITS.gym, name: 'Yシャツ（後ろ手）', img: 'panyu_yshirt_back_reach.webp', tipP: [[542, 561], [868, 558]], tipC: [[581, 580], [829, 577]],
-    pose: NP({ cups: [[588, 560, 135], [822, 557, 135]], keep: [[478, 650, 30, 70, 10], [938, 650, 30, 70, -10], [0, 0, 0, 0]], cheek: [[652, 272], [768, 268]], eyes: [[652, 228], [768, 224]], head: [710, 250, 400], focus: [705, 520] }) };   // 12番：後ろ手で得意げ（夜の部屋）。ボタン外しはまだ無い（開いた絵が要る）
+    pose: NP({ cups: [[588, 560, 135], [822, 557, 135]], keep: [[478, 650, 30, 70, 10], [938, 650, 30, 70, -10], [0, 0, 0, 0]], cheek: [[652, 272], [768, 268]], eyes: [[652, 228], [768, 224]], head: [710, 250, 400], focus: [705, 520] }) };   // 12番：後ろ手で得意げ（夜の部屋）
   OUTFITS['tshirt@stretch'] = { ...OUTFITS.tshirt, name: 'Tシャツ（朝の伸び）', img: 'panyu_tshirt_stretch_reach.webp', tipP: [[575, 588], [902, 586]], tipC: [[616, 634], [866, 632]],
     pose: NP({ cups: [[615, 652, 142], [862, 650, 142]], keep: [[400, 515, 110, 45, -12], [955, 470, 40, 80, 15], [0, 0, 0, 0]], cheek: [[665, 345], [795, 325]], eyes: [[652, 292], [785, 268]], head: [725, 310, 400], focus: [738, 600] }) };   // 13番：伸び＋目をこする（朝の寝室）
+  // 11/08 D19 の続き：頬・後ろ手のYシャツにもボタン外し。閉じた絵と開いた絵は ChatGPT の同じ会話で対に描かせ（閉じた絵→それを開く）、閉じた絵も差し替えた（今までの絵に位置合わせ済み）
+  const YB = (k, open, gx, ys) => Object.assign(OUTFITS[k], { kind: 'front', label: 'ボタン', what: '胸の下の白いボタン', fly: OUTFITS.nurse.fly, open, openB: [gx, 2000, 0], covers: [], coverLeft: [0, 0, 0],
+    parts: ys.map(y => ({ c: [gx, y], w: 22, h: 22, round: 1 })), openStage: [90, (ys[0] + ys[1]) / 2, (ys[1] + ys[2]) / 2, 9], gap: { ...OUTFITS[k].gap, gx, gy: ys[0] - 26, wide: 0.0001, ends: [ys[0] - 36, (ys[0] + ys[1]) / 2, (ys[1] + ys[2]) / 2, 800] } });
+  YB('yshirt@cheek', 'panyu_yshirt_cheek_open.webp', 709, [686, 734, 780]);
+  YB('yshirt@back', 'panyu_yshirt_back_open.webp', 710, [651, 703, 756]);
   const QS = new URLSearchParams(location.search), EMBED = QS.get('embed') === '1';   // 本編の中に埋め込まれた時（試作の帯を隠し、押した・外れたを本編へ知らせる）
   if (EMBED) document.body.classList.add('embed');
   const tell = (m) => { if (EMBED && parent !== window) try { parent.postMessage(Object.assign({ panyu: 1 }, m), '*'); } catch (_) {} };

diff --git a/game.js b/game.js
@@ -16740,7 +16740,7 @@ function applyPanyuBg(overlay) {
 // ぱにゅぱにゅ30タップミニゲーム
 // ぱにゅぱにゅの衣装（網目＋ばねの描画は docs/design-ref/panyu-mesh.html を埋め込んで使う）
 // 網目のページを直したら PANYU_MESH_V を上げる（ブラウザに残った古いページを使わせない）
-const PANYU_MESH_V = '20261108p';
+const PANYU_MESH_V = '20261108q';
 const PANYU_OUTFITS = [
   { id: 'bunny', name: 'バニー' }, { id: 'pajama', name: 'パジャマ' }, { id: 'pajama2', name: 'パジャマ2' }, { id: 'gothic', name: 'ゴスロリ' }, { id: 'jirai', name: '地雷系' }, { id: 'vintage', name: '古着' }, { id: 'nurse', name: 'ナース' }, { id: 'santa', name: 'サンタ' },
   { id: 'bikini', name: '水着' }, { id: 'halter', name: 'ホルター' }, { id: 'white', name: '白サテン' }, { id: 'dress', name: 'ドレス' },
